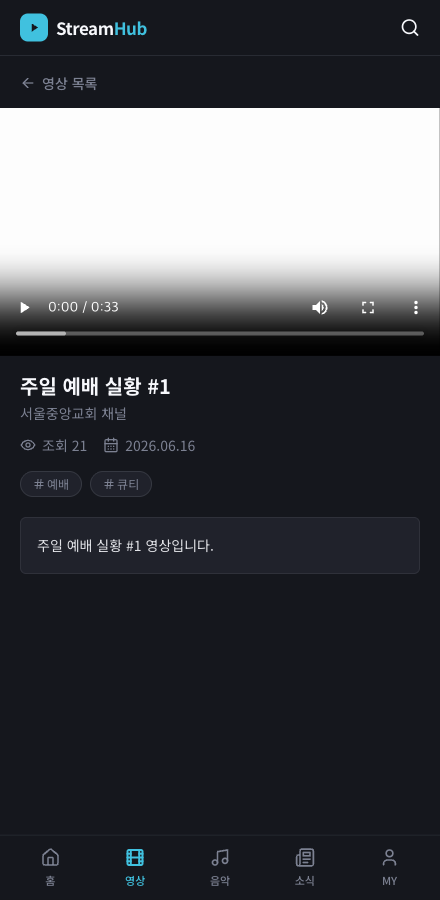
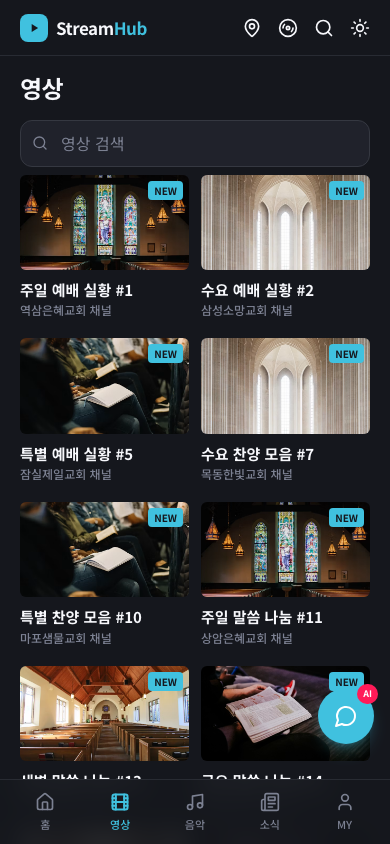
docs(readme): 스크린샷 현재 버전으로 전면 교체
- 사용자(모바일): 홈·CCM 음반(미리듣기)·교회찾기(Leaflet 지도)·예배 영상
- 관리자(데스크탑): 통합 대시보드(채널별 시청시간=실 트래킹 집계)·기능 카탈로그(정직 배지)·주문관리(AG Grid)
- 초창기 스크린샷 교체, 고아 이미지(user-search·user-mypage) 제거

diff --git a/README.en.md b/README.en.md
@@ -25,17 +25,17 @@ with an AWS deployment pipeline on top.
 ### User site (mobile · dark)
 <p>
   <img src="docs/screenshots/user-home.png" width="200" alt="Home" />
-  <img src="docs/screenshots/user-video.png" width="200" alt="Video detail" />
-  <img src="docs/screenshots/user-search.png" width="200" alt="Search" />
-  <img src="docs/screenshots/user-mypage.png" width="200" alt="My page" />
+  <img src="docs/screenshots/user-albums.png" width="200" alt="CCM albums · 30s preview" />
+  <img src="docs/screenshots/user-churches.png" width="200" alt="Church finder (Leaflet map)" />
+  <img src="docs/screenshots/user-video.png" width="200" alt="Worship video" />
 </p>
 
 ### Admin console (desktop)
-<img src="docs/screenshots/admin-dashboard.png" width="860" alt="Dashboard" />
+<img src="docs/screenshots/admin-dashboard.png" width="860" alt="Ops dashboard — KPIs + charts (watch-time by channel is aggregated from real tracking events)" />
 
-| Members (AG Grid) | Content |
+| Feature catalog (honest live/demo/external badges) | Orders (AG Grid · state machine) |
 |---|---|
-| <img src="docs/screenshots/admin-members.png" width="420" alt="Members" /> | <img src="docs/screenshots/admin-content.png" width="420" alt="Content" /> |
+| <img src="docs/screenshots/admin-catalog.png" width="420" alt="Feature catalog" /> | <img src="docs/screenshots/admin-orders.png" width="420" alt="Orders" /> |
 
 ---
 

diff --git a/README.md b/README.md
@@ -24,17 +24,17 @@
 ### 사용자 사이트 (모바일 · 다크)
 <p>
   <img src="docs/screenshots/user-home.png" width="200" alt="홈" />
-  <img src="docs/screenshots/user-video.png" width="200" alt="영상 상세" />
-  <img src="docs/screenshots/user-search.png" width="200" alt="통합 검색" />
-  <img src="docs/screenshots/user-mypage.png" width="200" alt="마이페이지" />
+  <img src="docs/screenshots/user-albums.png" width="200" alt="CCM 음반 · 30초 미리듣기" />
+  <img src="docs/screenshots/user-churches.png" width="200" alt="교회찾기 (Leaflet 지도)" />
+  <img src="docs/screenshots/user-video.png" width="200" alt="예배 영상" />
 </p>
 
 ### 관리자 콘솔 (데스크탑)
-<img src="docs/screenshots/admin-dashboard.png" width="860" alt="통계 대시보드" />
+<img src="docs/screenshots/admin-dashboard.png" width="860" alt="통합 운영 대시보드 — KPI + 차트(채널별 시청시간은 실 트래킹 이벤트 집계)" />
 
-| 회원관리 (AG Grid) | 콘텐츠관리 |
+| 기능 카탈로그 (실동작/데모/외부연동 정직 배지) | 주문관리 (AG Grid · 상태머신) |
 |---|---|
-| <img src="docs/screenshots/admin-members.png" width="420" alt="회원관리" /> | <img src="docs/screenshots/admin-content.png" width="420" alt="콘텐츠관리" /> |
+| <img src="docs/screenshots/admin-catalog.png" width="420" alt="기능 카탈로그" /> | <img src="docs/screenshots/admin-orders.png" width="420" alt="주문관리" /> |
 
 ---
 